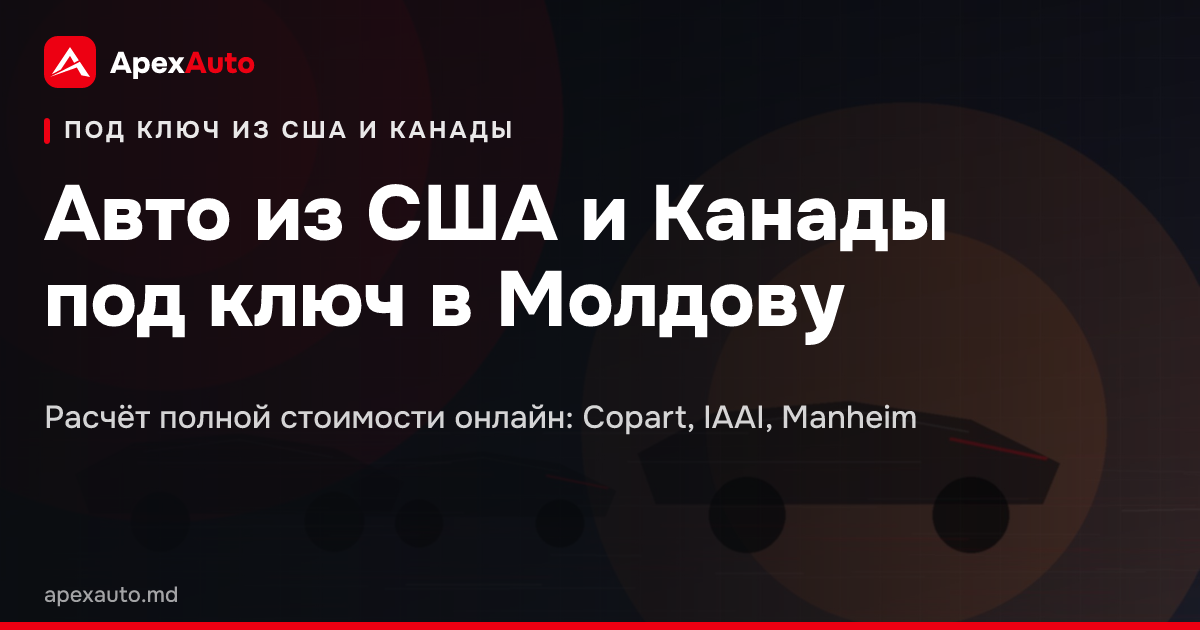
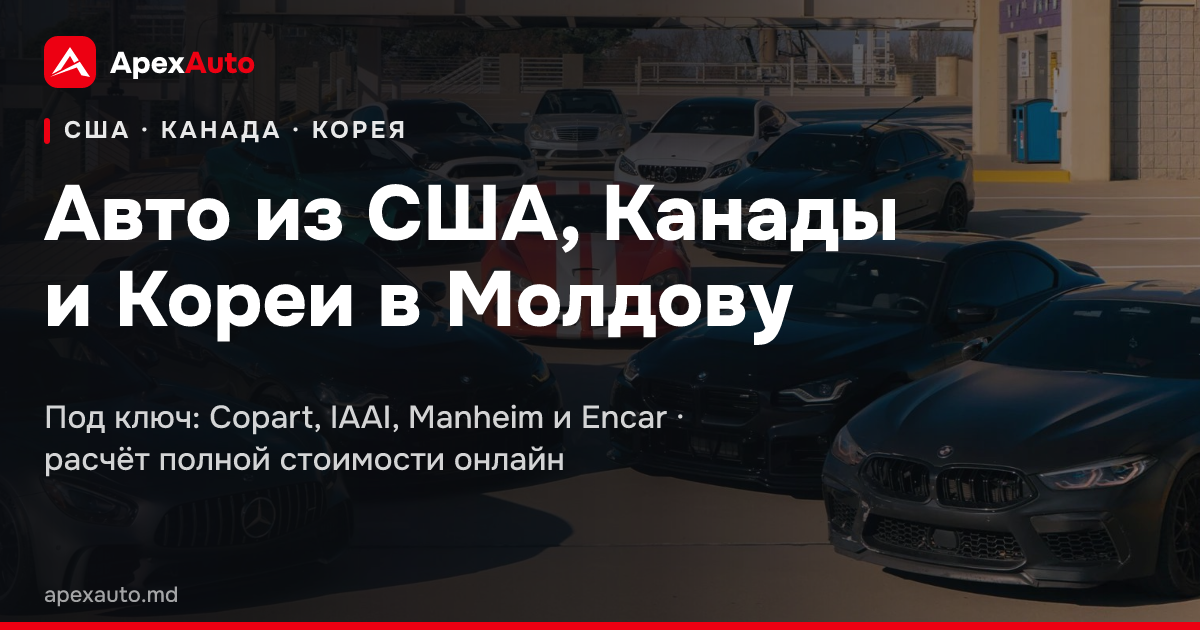
Превью главной: Корея в текстах, фото вместо нарисованного фона
Claude-Session: https://claude.ai/code/session_01CXkZhVdrfYwBSVehZRHepX

diff --git a/index.html b/index.html
@@ -15,8 +15,8 @@
     window.addEventListener('load',function(){try{if(localStorage.getItem('apexCookieConsent')==='1')window.apexLoadGA();}catch(e){}});
   </script>
   <meta name="viewport" content="width=device-width, initial-scale=1">
-  <title>Apex Auto — авто из США и Канады под ключ в Молдову</title>
-  <meta name="description" content="Авто из США и Канады под ключ в Молдову: Copart, IAAI, Manheim. Калькулятор полной стоимости до Кишинёва, бесплатный Carfax, сопровождение от покупки до выдачи.">
+  <title>Apex Auto — авто из США, Канады и Кореи под ключ в Молдову</title>
+  <meta name="description" content="Авто из США, Канады и Кореи под ключ в Молдову: Copart, IAAI, Manheim, Encar. Калькулятор полной стоимости до Кишинёва, бесплатный Carfax, сопровождение от покупки до выдачи.">
   <link rel="canonical" href="https://apexauto.md/">
   <link rel="alternate" hreflang="ru" href="https://apexauto.md/">
   <link rel="alternate" hreflang="ro" href="https://apexauto.md/?lang=ro">
@@ -25,17 +25,17 @@
   <meta property="og:type" content="website">
   <meta property="og:site_name" content="Apex Auto">
   <meta property="og:locale" content="ru_RU">
-  <meta property="og:title" content="Apex Auto — авто из США и Канады под ключ в Молдову">
-  <meta property="og:description" content="Расчёт полной стоимости авто из США и Канады под ключ до Кишинёва: аукционы Copart, IAAI, Manheim, доставка, таможня, страховка. Подбор, бесплатный Carfax и сопровождение.">
+  <meta property="og:title" content="Apex Auto — авто из США, Канады и Кореи под ключ в Молдову">
+  <meta property="og:description" content="Расчёт полной стоимости авто из США, Канады и Кореи под ключ до Кишинёва: аукционы Copart, IAAI, Manheim, каталог Encar, доставка, таможня, страховка. Подбор, бесплатный Carfax и сопровождение.">
   <meta property="og:url" content="https://apexauto.md/">
-  <meta property="og:image" content="https://apexauto.md/assets/og/index.png?v=4">
+  <meta property="og:image" content="https://apexauto.md/assets/og/index.png?v=5">
   <meta property="og:image:width" content="1200">
   <meta property="og:image:height" content="630">
   <meta property="og:image:type" content="image/png">
   <meta name="twitter:card" content="summary_large_image">
-  <meta name="twitter:title" content="Apex Auto — авто из США и Канады под ключ в Молдову">
-  <meta name="twitter:description" content="Расчёт полной стоимости авто из США и Канады под ключ до Кишинёва: аукционы Copart, IAAI, Manheim, доставка, таможня, страховка. Подбор, бесплатный Carfax и сопровождение.">
-  <meta name="twitter:image" content="https://apexauto.md/assets/og/index.png?v=4">
+  <meta name="twitter:title" content="Apex Auto — авто из США, Канады и Кореи под ключ в Молдову">
+  <meta name="twitter:description" content="Расчёт полной стоимости авто из США, Канады и Кореи под ключ до Кишинёва: аукционы Copart, IAAI, Manheim, каталог Encar, доставка, таможня, страховка. Подбор, бесплатный Carfax и сопровождение.">
+  <meta name="twitter:image" content="https://apexauto.md/assets/og/index.png?v=5">
   <link rel="preload" as="image" href="/assets/hot/founder-auction.webp" imagesrcset="/assets/hot/founder-auction-1000.webp 1000w, /assets/hot/founder-auction.webp 1400w" imagesizes="(max-width: 700px) 330px, 100vw" type="image/webp" fetchpriority="high">
       <link rel="preload" href="/assets/fonts/inter-cyrillic.woff2" as="font" type="font/woff2" crossorigin>
   <link rel="preload" href="/assets/fonts/inter-latin.woff2" as="font" type="font/woff2" crossorigin>

diff --git a/server/og-pages.js b/server/og-pages.js
@@ -2,10 +2,10 @@
 // и для мета-тегов при ?lang=ro|en (api/page-meta.js). k — метка раздела, h — заголовок на картинке, s — подпись, t — <title>/og:title, d — описание.
 // RU-версия дублирует то, что уже стоит в HTML страниц (для картинок); отдельные ro-* страницы описаны в scripts/build-og-pages.js.
 const PAGES = {
-  index:{path:"", img:"hero-bg-v43.jpg",
-    ru:{k:"ПОД КЛЮЧ ИЗ США И КАНАДЫ", h:"Авто из США и Канады под ключ в Молдову", s:"Расчёт полной стоимости онлайн: Copart, IAAI, Manheim"},
-    ro:{k:"LA CHEIE DIN SUA ȘI CANADA", h:"Mașini din SUA și Canada la cheie în Moldova", s:"Calcul complet online: Copart, IAAI, Manheim", t:"Apex Auto — mașini din SUA și Canada la cheie în Moldova", d:"Calculează costul complet al unei mașini din SUA și Canada până la Chișinău: licitații Copart, IAAI, Manheim, livrare și vămuire."},
-    en:{k:"TURNKEY DELIVERY", h:"Cars from the USA and Canada to Moldova", s:"Full cost online: Copart, IAAI, Manheim", t:"Apex Auto — cars from the USA and Canada turnkey to Moldova", d:"Get the full turnkey cost of a car from the USA and Canada to Chisinau: Copart, IAAI and Manheim auctions, shipping and customs."}},
+  index:{path:"", img:"hot/hero-carfleet.jpg",
+    ru:{k:"США · КАНАДА · КОРЕЯ", h:"Авто из США, Канады и\u00a0Кореи в\u00a0Молдову", s:"Под ключ: Copart, IAAI, Manheim и\u00a0Encar\u00a0· расчёт полной стоимости онлайн"},
+    ro:{k:"SUA · CANADA · COREEA", h:"Mașini din SUA, Canada și\u00a0Coreea în\u00a0Moldova", s:"La cheie: Copart, IAAI, Manheim și\u00a0Encar · calcul complet online", t:"Apex Auto — mașini din SUA, Canada și Coreea la cheie în Moldova", d:"Calculează costul complet al unei mașini din SUA, Canada sau Coreea până la Chișinău: licitații Copart, IAAI, Manheim, catalog Encar, livrare și vămuire."},
+    en:{k:"USA · CANADA · KOREA", h:"Cars from the USA, Canada and\u00a0Korea to Moldova", s:"Copart, IAAI, Manheim and Encar · full cost online", t:"Apex Auto — cars from the USA, Canada and Korea turnkey to Moldova", d:"Get the full turnkey cost of a car from the USA, Canada or Korea to Chisinau: Copart, IAAI and Manheim auctions, the Encar catalog, shipping and customs."}},
   auctions:{path:"auctions", img:"hot/honda-accord.jpg",
     ru:{k:"КАТАЛОГ АУКЦИОНОВ", h:"Аукционы Copart и IAAI", s:"Поиск по VIN и лоту · фото · расчёт под ключ до Кишинёва"},
     ro:{k:"CATALOG LICITAȚII", h:"Licitații Copart și IAAI", s:"Căutare după VIN și lot · foto · calcul la cheie până la Chișinău", t:"Licitații Copart și IAAI — catalog auto din SUA și Canada | Apex Auto", d:"Catalog de mașini de la licitațiile Copart și IAAI: căutare după VIN și lot, filtre, fotografii și calcul la cheie până la Chișinău."},

diff --git a/server/og-card.js b/server/og-card.js
@@ -37,7 +37,8 @@ function textW(s, size, bold){
 }
 // До maxLines строк, слова целиком; лишнее — «…»
 function wrap(text, size, maxW, maxLines, bold){
-  const words = String(text || "").split(/\s+/).filter(Boolean);
+  // неразрывный пробел (\u00a0) держит слова вместе — делим только по обычным пробелам
+  const words = String(text || "").split(/[ \t\r\n]+/).filter(Boolean);
   const lines = []; let cur = "";
   for(let i = 0; i < words.length; i++){
     const next = cur ? cur + " " + words[i] : words[i];
@@ -45,7 +46,7 @@ function wrap(text, size, maxW, maxLines, bold){
     else{ lines.push(cur); cur = words[i]; if(lines.length === maxLines) break; }
   }
   if(lines.length < maxLines && cur) lines.push(cur);
-  const used = lines.join(" ").split(/\s+/).length;
+  const used = lines.join(" ").split(/[ \t\r\n]+/).length;
   if(used < words.length && lines.length){ let last = lines[lines.length - 1]; while(last.length > 1 && textW(last + "…", size, bold) > maxW) last = last.slice(0, -1); lines[lines.length - 1] = last.replace(/[\s,.-]+$/, "") + "…"; }
   return lines;
 }

diff --git a/api/page-meta.js b/api/page-meta.js
@@ -22,7 +22,7 @@ module.exports = async function(req, res){
     return;
   }
   const url = `https://apexauto.md${def.path ? "/" + def.path : "/"}?lang=${lang}`;
-  const img = `https://apexauto.md/assets/og/${key}-${lang}.png?v=5`;
+  const img = `https://apexauto.md/assets/og/${key}-${lang}.png?v=6`;
   const loc = {ro:"ro_RO", en:"en_US"}[lang];
   html = html
     .replace(/<html lang="[a-z-]*"/, `<html lang="${lang}"`)

diff --git a/CLAUDE.md b/CLAUDE.md
@@ -2216,3 +2216,9 @@ Organization sameAs с 6 соцсетями). Закрыл пробелы:
   `insurance_gap_history` с другим цветом, а проверка `odometer_rollback` — строку «Пробег» → дубли убраны, признак скрутки из проверки
   учитывается в строке «Пробег»; (3) **комплектация** — опции без перевода у провайдера шли по-корейски («가죽시트») и с маленькой буквы →
   `KO_OPT` (известные корейские названия) + заглавная первая буква. `catalog-ref.css?v=v10`, `catalog-car.js?v=v16`, `i18n.js?v=multilang-v560`.
+- **Превью главной в мессенджерах — с Кореей и настоящим фото (06.11.2026, Федор: «у нас теперь и Корея, измени картинку фон, ужасно смотрится»)**:
+  фон был нарисованной заглушкой `hero-bg-v43.jpg` (круги и силуэты машин) → фото `assets/hot/hero-carfleet.jpg` (ряд машин на парковке).
+  Тексты `index` в `server/og-pages.js` (RU/RO/EN): «США · КАНАДА · КОРЕЯ», «Авто из США, Канады и Кореи в Молдову», подпись «Под ключ: Copart, IAAI,
+  Manheim и Encar»; title/description/og/twitter в `index.html` тоже с Кореей. `server/og-card.js` `wrap()` теперь делит только по обычным пробелам —
+  неразрывный ` ` держит слова вместе (так убраны висящие «и»/«в»). `index.png?v=5`, RO/EN картинки страниц `?v=6` (`api/page-meta.js`).
+  Telegram кэширует превью по ссылке — для старого поста нужен @WebpageBot или новая ссылка.
